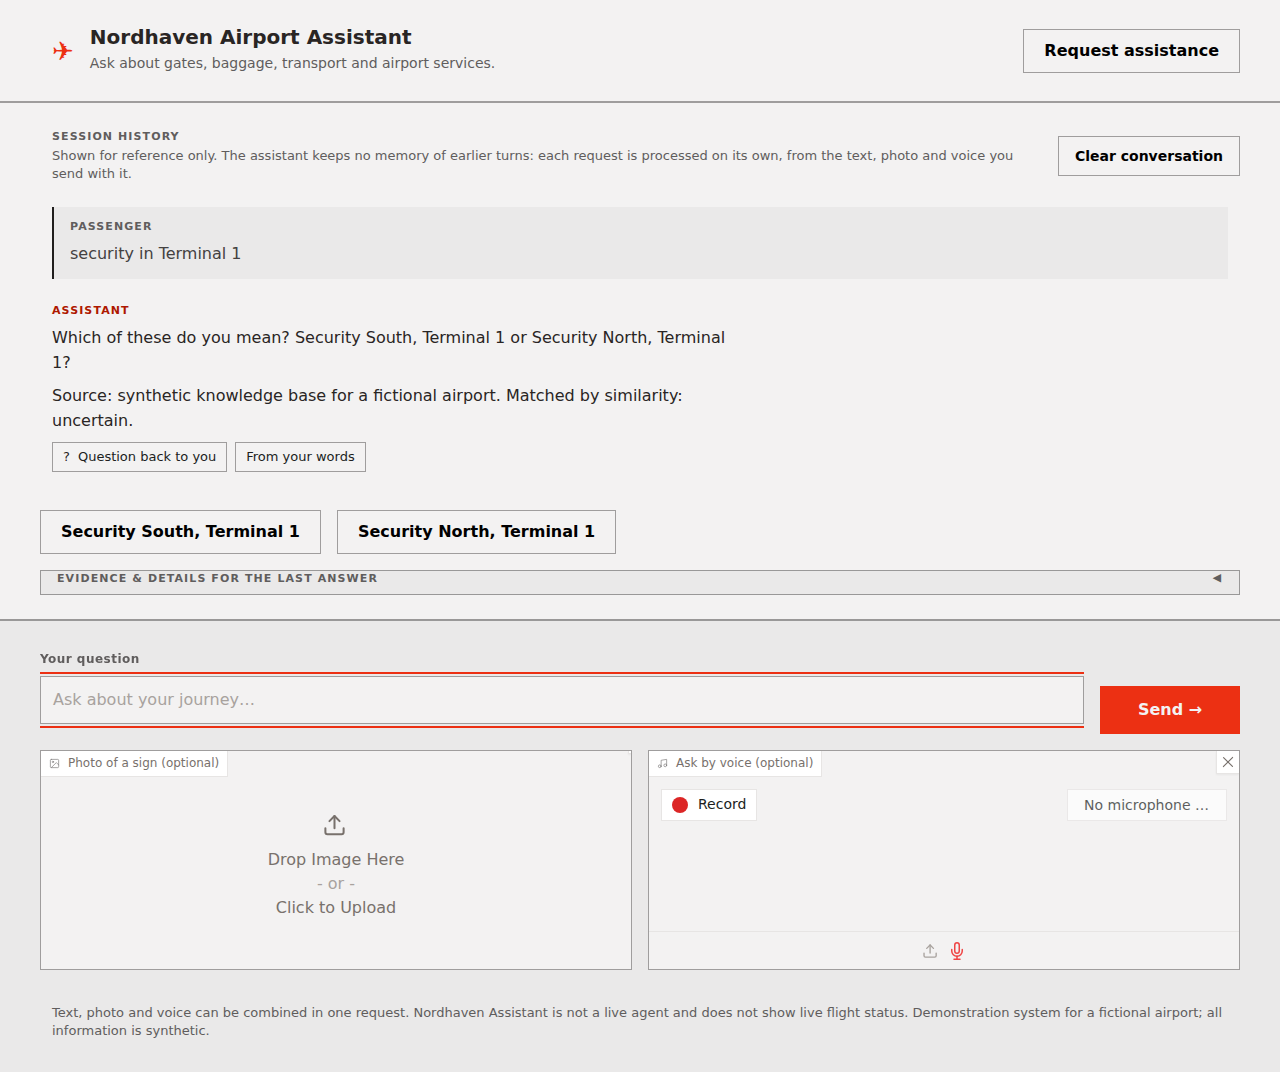
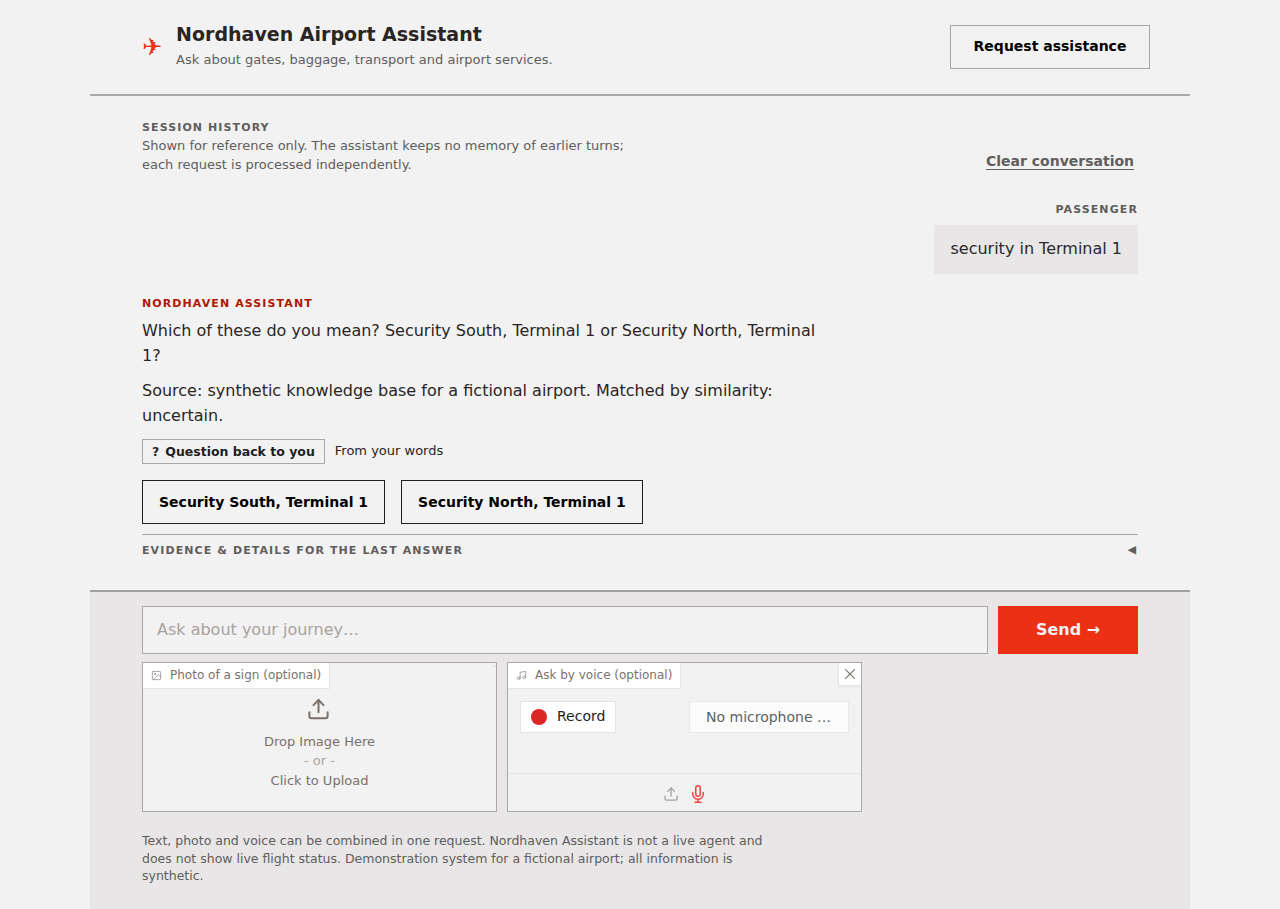
Interface: final visual pass, chat hierarchy, compact composer, single no-memory note
Passenger messages as right-aligned blocks, assistant answers as plain
text with a one-line status/source/place metadata line; hours and access
details shown under Record facts in the evidence panel from the same
fact-chip output. Composer compacted: Send attached to the question,
photo and voice as equal-height secondary controls. The no-memory note is
stated once under Session history. Presentation only; 217 tests pass.

diff --git a/app/app.py b/app/app.py
@@ -19,6 +19,7 @@ from __future__ import annotations
 import base64
 import html
 import io
+import re
 import sys
 import time
 import traceback
@@ -53,8 +54,8 @@ SUBTITLE = "Ask about gates, baggage, transport and airport services."
 SCOPE_NOTE = ("Text, photo and voice can be combined in one request. Nordhaven Assistant is not a live agent "
               "and does not show live flight status. Demonstration system for a fictional airport; "
               "all information is synthetic.")
-HISTORY_NOTE = ("Shown for reference only. The assistant keeps no memory of earlier turns: each request is "
-                "processed on its own, from the text, photo and voice you send with it.")
+HISTORY_NOTE = ("Shown for reference only. The assistant keeps no memory of earlier turns; "
+                "each request is processed independently.")
 EXAMPLES = ["Where is gate B12?", "Where can I collect my baggage?", "How do I get to Terminal 2?",
             "What does this sign mean?"]
 QUICK_REPLY_SLOTS = 3
@@ -123,6 +124,9 @@ def evidence_markdown(outcome: Outcome, gaz) -> str:
                      "from the score together with the gap to the runner-up, not from the number alone.")
     if outcome.matched_record_id:
         lines.append(f"**Matched record:** `{outcome.matched_record_id}`")
+        facts = [chip_text(c) for c in fact_chips(outcome, gaz)[1:]]
+        if facts:
+            lines.append("**Record facts:** " + "; ".join(facts))
     if outcome.candidates:
         lines.append("**Candidates:** " + ", ".join(gaz.records[r]["name"] for r in outcome.candidates if r in gaz.records))
     if outcome.conflict:
@@ -131,7 +135,6 @@ def evidence_markdown(outcome: Outcome, gaz) -> str:
                      f"photo points to {d.get('image_category')}; resolution: {d.get('resolution')}")
     if outcome.flags:
         lines.append("**Flags:** " + ", ".join(outcome.flags))
-    lines.append(HISTORY_NOTE)
     return "\n\n".join(lines)
 
 
@@ -145,6 +148,10 @@ def status_key(outcome: Outcome) -> str:
     if outcome.decision in ("redirect", "conflict", "clarify"):
         return outcome.decision
     return outcome.band or "no reliable match"
+
+
+def chip_text(chip_html: str) -> str:
+    return re.sub(r"<[^>]+>", "", chip_html).strip()
 
 
 def status_chip(key: str) -> str:
@@ -206,6 +213,7 @@ def thumbnail(image_path: str, box: int = 112) -> str | None:
 def passenger_html(text: str | None, image_path: str | None, transcript: str | None, audio: bool) -> str:
     parts = ['<div class="turn turn--user">']
     parts.append('<div class="role">Passenger' + (' · voice' if audio else '') + '</div>')
+    parts.append('<div class="bubble">')
     if image_path:
         thumb = thumbnail(image_path)
         parts.append(f'<img class="thumb" src="{thumb}" alt="Photo you attached">' if thumb
@@ -218,7 +226,7 @@ def passenger_html(text: str | None, image_path: str | None, transcript: str | N
         parts.append(f'<div class="answer">{html.escape(text)}</div>')
     if not text and not audio and image_path:
         parts.append('<div class="answer muted">Sent without a question</div>')
-    parts.append('</div>')
+    parts.append('</div></div>')
     return "".join(parts)
 
 
@@ -228,8 +236,11 @@ def assistant_html(response: str, key: str, chips: list[str]) -> str:
         body = (f'<div class="official"><div class="role">Official information</div>{paragraphs}</div>')
     else:
         body = f'<div class="answer">{paragraphs}</div>'
-    return (f'<div class="turn turn--assistant"><div class="role">Assistant</div>{body}'
-            f'<div class="chips">{status_chip(key)}{"".join(chips)}</div></div>')
+    # the metadata line carries the status, the evidence route and the place;
+    # hours and access details stay in the evidence panel
+    meta = " · ".join(chip_text(c) for c in chips[:2])
+    return (f'<div class="turn turn--assistant"><div class="role">Nordhaven Assistant</div>{body}'
+            f'<div class="meta">{status_chip(key)}<span class="meta-text">{meta}</span></div></div>')
 
 
 def conversation_html(history: list[dict]) -> str:
@@ -310,93 +321,128 @@ def request_assistance(note, session):
 # ---------------------------------------------------------------------------
 
 CSS = """
-.gradio-container { --bg:#f3f2f2; --surface:#eae9e9; --ink:#201e1d; --accent:#ec3013; --accent-deep:#ae1800;
-                    --muted:#605d5d; --rule:rgba(32,30,29,.4); --gutter:40px;
-                    max-width: 1280px !important; margin: 0 auto; background: var(--bg) !important; color: var(--ink); }
+.gradio-container { --bg:#f3f2f2; --surface:#e8e6e6; --ink:#201e1d; --accent:#ec3013; --accent-deep:#ae1800;
+                    --muted:#605d5d; --rule:rgba(32,30,29,.35); --gutter:40px; --gutter-block:calc(var(--gutter) + 12px);
+                    max-width: 1100px !important; width: 100% !important; margin: 0 auto;
+                    background: var(--bg) !important; color: var(--ink); }
 .gradio-container main.app { padding: 0 !important; }
 .gradio-container .block, .gradio-container .form { border: 0 !important; background: none !important; box-shadow: none !important; }
 footer, .built-with { display: none !important; }
 body, .gradio-container, .gradio-container * { font-family: "Archivo", system-ui, sans-serif; border-radius: 0 !important; }
 #app { gap: 0; }
+
+/* header */
 #header { display: flex; align-items: center; justify-content: space-between; gap: 16px;
-          padding: 16px var(--gutter); border-bottom: 2px solid var(--rule); }
-#header .mark { color: var(--accent); font-size: 26px; line-height: 1; }
-#header h1 { margin: 0; font-size: 20px; line-height: 1.12; font-weight: 800; }
-#header p { margin: 4px 0 0 0; font-size: 14px; color: var(--muted); }
-#header .brand { display: flex; align-items: center; gap: 16px; }
-#assist-toggle { min-height: 44px; flex: 0 0 auto !important; padding: 0 20px; background: transparent; border: 1px solid var(--rule); }
-#conversation-wrap { padding: 0 !important; }
-#conversation { padding: 4px var(--gutter) 8px; }
-#history-bar { padding: 16px var(--gutter) 0; align-items: center; justify-content: space-between; }
+          padding: 14px var(--gutter); border-bottom: 2px solid var(--rule); }
+#header .mark { color: var(--accent); font-size: 24px; line-height: 1; }
+#header h1 { margin: 0; font-size: 19px; line-height: 1.15; font-weight: 800; }
+#header p { margin: 3px 0 0 0; font-size: 13px; color: var(--muted); }
+#header .brand { display: flex; align-items: center; gap: 14px; }
+#assist-toggle { min-height: 44px; flex: 0 0 auto !important; padding: 0 16px; background: transparent;
+                 border: 1px solid var(--rule); font-weight: 600; font-size: 14px; }
+
+/* empty state */
+#examples { padding: 20px var(--gutter) 0; }
+#examples-label { margin: 0 0 8px; }
+#examples .row { justify-content: flex-start; gap: 8px; }
+#examples .ex { min-height: 44px; flex: 0 0 auto !important; padding: 0 14px; background: var(--bg);
+                border: 1px solid var(--rule); font-weight: 400; font-size: 15px; }
+#examples-hint { font-size: 14px; color: var(--muted); margin-top: 4px; }
+
+/* session history */
+#history-bar { padding: 14px var(--gutter) 0; align-items: flex-end; justify-content: space-between; gap: 12px; }
 #history-bar .block { padding: 0 !important; }
-#history-note { font-size: 13px; color: var(--muted); margin-top: 2px; }
-#conversation .turn { display: flex; flex-direction: column; gap: 8px; padding: 16px 0; }
-#conversation .turn--user { padding: 12px 16px; margin-top: 16px; background: var(--surface);
-                            border-left: 2px solid var(--ink); }
-#conversation .turn--user:first-child { margin-top: 0; }
-#conversation .turn--assistant { padding: 16px 0 20px; margin-top: 8px; border-bottom: 1px solid var(--rule); }
-#conversation .turn--assistant:last-child { border-bottom: 0; }
+#history-note { font-size: 13px; color: var(--muted); margin-top: 2px; max-width: 60ch; }
+#clear { background: transparent; border: 0; min-height: 44px; flex: 0 0 auto !important; padding: 0 8px;
+         font-weight: 600; font-size: 14px; color: var(--muted); text-decoration: underline; text-underline-offset: 3px; }
+#clear:hover { color: var(--ink); }
+
+/* conversation */
+#conversation-wrap { padding: 0 !important; }
+#conversation { padding: 8px var(--gutter) 4px; display: flex; flex-direction: column; gap: 22px; }
 .role, .subrole, #examples-label { font-weight: 800; font-size: 11px; letter-spacing: .1em; text-transform: uppercase; color: var(--muted); }
+.turn { display: flex; flex-direction: column; gap: 8px; }
+.turn--user { align-items: flex-end; text-align: left; }
+.turn--user .bubble { background: var(--surface); padding: 12px 16px; max-width: min(60ch, 85%);
+                      display: flex; flex-direction: column; gap: 8px; }
+.turn--user .answer { color: #2b2929; }
+.turn--assistant { align-items: flex-start; }
 .turn--assistant .role { color: var(--accent-deep); }
 .answer, .answer p { font-size: 16px; line-height: 1.55; max-width: 68ch; margin: 0; }
-.answer p + p { margin-top: 8px; }
-.turn--user .answer { color: #444141; }
+.answer p + p { margin-top: 10px; }
 .muted { color: var(--muted); }
-.chips { display: flex; flex-wrap: wrap; gap: 8px; }
-.chip { display: inline-flex; align-items: center; gap: 8px; font-size: 13px; padding: 5px 10px;
-        border: 1px solid var(--rule); background: var(--bg); color: var(--ink); }
-.chip--none { color: var(--accent-deep); border-color: var(--accent-deep); font-weight: 600; }
-.chip--ok { font-weight: 600; }
-.chip--media { align-self: flex-start; background: var(--surface); }
-.thumb { width: 112px; height: 84px; object-fit: contain; background: var(--surface); border: 1px solid var(--rule); }
-.official { padding: 18px 20px; background: var(--surface); border: 1px solid var(--rule);
-            border-left: 2px solid var(--ink); max-width: 620px; }
+.meta { display: flex; flex-wrap: wrap; align-items: center; gap: 10px; font-size: 13px; color: var(--muted); margin-top: 2px; }
+.meta-text { line-height: 1.4; }
+.chip { display: inline-flex; align-items: center; gap: 6px; font-size: 12.5px; padding: 3px 9px;
+        border: 1px solid var(--rule); background: var(--bg); color: var(--ink); font-weight: 600; }
+.chip--none { color: var(--accent-deep); border-color: var(--accent-deep); }
+.chip--media { align-self: flex-start; background: var(--bg); font-weight: 400; }
+.thumb { width: 112px; height: 84px; object-fit: contain; background: var(--bg); border: 1px solid var(--rule); }
+.official { padding: 16px 18px; background: var(--surface); border-left: 2px solid var(--ink); max-width: 620px; }
 .official p { font-size: 16px; line-height: 1.55; margin: 8px 0 0 0; }
-#examples { padding: 0 var(--gutter) 8px; }
-#examples-label { margin: 24px 0 8px; }
-#examples .row { justify-content: flex-start; }
-#examples .ex { min-height: 44px; flex: 0 0 auto !important; padding: 0 14px; background: var(--bg); border: 1px solid var(--rule); font-weight: 400; font-size: 15px; }
-#examples-hint { font-size: 14px; color: var(--muted); }
-#quick { padding: 0 var(--gutter) 16px; }
-#quick .row { justify-content: flex-start; }
-#quick button { min-height: 44px; flex: 0 0 auto !important; padding: 0 20px; border: 1px solid var(--rule); background: var(--bg); font-weight: 600; }
-#notice { padding: 8px var(--gutter); color: var(--accent-deep); font-size: 15px; }
-#evidence { margin: 0 var(--gutter) 16px !important; width: auto !important; background: var(--surface) !important;
-            border: 1px solid var(--rule) !important; padding: 0 16px 8px !important; }
-#evidence .prose { font-size: 14px; }
-#assistance { padding: 16px var(--gutter) 16px !important; border-top: 1px solid var(--rule) !important; }
-#assistance textarea { background: var(--bg); border: 1px solid var(--rule) !important; font-size: 16px; }
-#assistance button { flex: 0 0 auto !important; width: auto !important; align-self: flex-start; min-height: 48px; padding: 0 20px;
-                     background: var(--accent); color: var(--bg); font-weight: 800; border: 0; }
-#evidence .label-wrap span, #assistance .label-wrap span { font-weight: 800; font-size: 11px; letter-spacing: .1em; text-transform: uppercase; color: var(--muted); }
-#composer { border-top: 2px solid var(--rule); background: var(--surface); padding: 18px var(--gutter) 22px; margin-top: 8px; }
-#composer textarea, #transcript textarea { min-height: 48px; font-size: 16px; background: var(--bg);
-                    border: 1px solid var(--rule) !important; padding: 12px; }
-#composer label span, #transcript label span { font-size: 12px; font-weight: 600; letter-spacing: .04em; color: var(--muted); }
-#send { background: var(--accent); color: var(--bg); font-weight: 800; border: 0; min-height: 48px;
-        flex: 0 0 auto !important; padding: 0 24px; align-self: flex-end; }
-#send:hover { background: #dd2b0f; }
-#clear { background: transparent; border: 1px solid var(--rule); min-height: 40px; flex: 0 0 auto !important;
-         padding: 0 16px; font-weight: 600; font-size: 14px; }
-#attachments { align-items: stretch; }
-#attachments > .block { min-height: 220px; }
-#question, #transcript, #assistance .block, #examples .block, #notice { padding-left: 0 !important; padding-right: 0 !important; }
-#scope { font-size: 13px; color: var(--muted); margin-top: 8px; }
-#photo, #voice { background: var(--bg) !important; border: 1px solid var(--rule) !important; }
+
+/* after the last answer */
+#notice { padding: 8px var(--gutter-block) 0; color: var(--accent-deep); font-size: 15px; }
+#quick { padding: 2px var(--gutter-block) 0; }
+#quick .row { justify-content: flex-start; gap: 8px; }
+#quick button { min-height: 44px; flex: 0 0 auto !important; padding: 0 16px; border: 1px solid var(--ink);
+                background: var(--bg); font-weight: 600; font-size: 14px; }
+#transcript { padding: 6px var(--gutter-block) 0 !important; }
+#evidence { margin: 10px var(--gutter-block) 0 !important; width: auto !important; padding: 0 !important;
+            border-top: 1px solid var(--rule) !important; }
+#evidence .label-wrap { padding: 8px 0 !important; }
+#evidence .label-wrap span { font-weight: 800; font-size: 11px; letter-spacing: .1em; text-transform: uppercase; color: var(--muted); }
+#evidence .prose { font-size: 13.5px; line-height: 1.5; color: #3a3737; padding-bottom: 8px; }
+#evidence .prose p { margin: 0 0 6px 0; }
+
+/* assistance */
+#assistance { padding: 16px var(--gutter-block) 18px !important; margin-top: 16px; border-top: 1px solid var(--rule) !important; }
+#assistance .block, #assistance .html-container, #assistance .prose { padding: 0 !important; }
 #assistance-note { font-size: 14px; }
+#assistance textarea { background: var(--bg); border: 1px solid var(--rule) !important; font-size: 15px; }
+#assistance button { flex: 0 0 auto !important; width: auto !important; align-self: flex-start; min-height: 44px;
+                     padding: 0 18px; background: var(--ink); color: var(--bg); font-weight: 700; border: 0; font-size: 14px; }
+
+/* composer */
+#composer { border-top: 2px solid var(--rule); background: var(--surface); padding: 14px var(--gutter-block) 14px; margin-top: 24px; gap: 8px; }
+#composer .block { padding: 0 !important; }
+#composer .row { gap: 10px; }
+#question textarea, #transcript textarea { min-height: 48px; font-size: 16px; background: var(--bg);
+                    border: 1px solid var(--rule) !important; padding: 12px 14px; }
+#question label span, #transcript label span, #attachments label span { font-size: 12px; font-weight: 600;
+                    letter-spacing: .04em; color: var(--muted); }
+#question label span { position: absolute; width: 1px; height: 1px; overflow: hidden; clip: rect(0 0 0 0); }
+#send { background: var(--accent); color: var(--bg); font-weight: 800; border: 0; min-height: 48px;
+        flex: 0 0 auto !important; padding: 0 22px; align-self: flex-end; }
+#send:hover { background: #dd2b0f; }
+#attachments { align-items: stretch; max-width: 720px; }
+#attachments > .block, #photo, #voice { min-height: 0 !important; height: 150px !important; max-height: 150px !important;
+                        background: var(--bg) !important; border: 1px solid var(--rule) !important; overflow: hidden; }
+#photo .upload-container, #photo .upload-container > button { height: 100% !important; max-height: 148px !important; }
+#attachments .label-wrap, #attachments label { font-size: 12px; }
+#photo .upload-container, #photo .image-container { height: 100%; }
+#photo .wrap { font-size: 13px; }
+#voice .controls, #voice .audio-container { min-height: 0; }
+#scope { font-size: 12.5px; color: var(--muted); margin: 2px 0 0 -12px; max-width: 80ch; }
 :focus-visible { outline: 2px solid var(--accent) !important; outline-offset: 2px; }
+
 @media (max-width: 760px) {
-  .gradio-container { --gutter: 18px; }
+  .gradio-container { --gutter: 18px; --gutter-block: 30px; }
   #header { flex-direction: column; align-items: flex-start; }
-  #composer .row, #quick .row, #examples .row, #history-bar { flex-direction: column; align-items: stretch; }
+  #composer .row, #quick .row, #examples .row, #history-bar, #attachments { flex-direction: column; align-items: stretch; }
   #send { align-self: stretch; }
+  .turn--user .bubble { max-width: 100%; }
+  #attachments > .block, #photo, #voice { height: 140px !important; max-height: 140px !important; }
+  #send { width: 100% !important; }
+  #photo .upload-container, #photo .upload-container > button { max-height: 138px !important; }
 }
 """
 
 
 def build_ui() -> gr.Blocks:
     theme = gr.themes.Base(primary_hue="red", neutral_hue="stone",
-                           font=[gr.themes.GoogleFont("Archivo"), "system-ui", "sans-serif"])
+                           font=[gr.themes.GoogleFont("Archivo"), "system-ui", "sans-serif"]
+                           ).set(body_background_fill="#f3f2f2", body_background_fill_dark="#f3f2f2")
     with gr.Blocks(theme=theme, css=CSS, title=f"{AIRPORT} passenger assistant") as demo:
         session = gr.State({})
         with gr.Column(elem_id="app"):
@@ -423,7 +469,7 @@ def build_ui() -> gr.Blocks:
                                     visible=False, lines=1, elem_id="transcript")
             with gr.Accordion("Evidence & details for the last answer", open=False, elem_id="evidence",
                               visible=False) as evidence_panel:
-                evidence = gr.Markdown(value=HISTORY_NOTE)
+                evidence = gr.Markdown(value="")
 
             with gr.Column(visible=False, elem_id="assistance") as assistance:
                 gr.HTML('<div class="role">Assistance request</div>')
@@ -443,7 +489,7 @@ def build_ui() -> gr.Blocks:
                     # image_mode=None keeps the file as uploaded: the default RGB conversion
                     # turns a transparent pictogram into a black square before it reaches us
                     image_in = gr.Image(label="Photo of a sign (optional)", type="filepath", sources=["upload"],
-                                        image_mode=None, height=180, elem_id="photo")
+                                        image_mode=None, height=150, elem_id="photo")
                     audio_in = gr.Audio(label="Ask by voice (optional)", type="filepath",
                                         sources=["microphone", "upload"], elem_id="voice")
                 gr.HTML(f'<div id="scope">{SCOPE_NOTE}</div>')
@@ -460,7 +506,7 @@ def build_ui() -> gr.Blocks:
             return [result["conversation"], gr.update(visible=not has_history), gr.update(visible=has_history),
                     gr.update(value=result["notice"], visible=bool(result["notice"])),
                     gr.update(visible=bool(quick)), *buttons, gr.update(value=heard, visible=bool(heard)),
-                    gr.update(visible=bool(result["evidence"])), result["evidence"] or HISTORY_NOTE,
+                    gr.update(visible=bool(result["evidence"])), result["evidence"],
                     result["session"], "", None, None]
 
         def on_send(text, image_path, audio_path, session):

diff --git a/tests/test_app.py b/tests/test_app.py
@@ -107,7 +107,13 @@ def test_turns_are_independent_but_stay_on_screen(models_ready, tmp_path, monkey
     assert len(second["session"]["history"]) == 2 and second["session"]["turn"] == 2
     assert "Where is security?" in second["conversation"]      # earlier turn still shown
     assert "Terminal 1" in second["session"]["history"][-1]["passenger"]
-    assert ui.HISTORY_NOTE in second["evidence"]
+    assert ui.HISTORY_NOTE not in second["evidence"]      # stated once, in the session-history bar
+    assert "Record facts:" in ui.run_turn("Where is gate B12?", None, None, {})["evidence"]
+
+
+def test_history_note_is_on_the_page():
+    demo = ui.build_ui()
+    assert any(ui.HISTORY_NOTE in str(getattr(c, "value", "")) for c in demo.blocks.values())
 
 
 def test_unreadable_image_is_handled(models_ready, tmp_path, monkeypatch):

diff --git a/docs/checkpoints/05_0_ui_presentation.md b/docs/checkpoints/05_0_ui_presentation.md
@@ -84,10 +84,24 @@ Assistance. "Request assistance" in the header opens the existing
 escalation panel (note, reference number, contact route from the KB).
 Wording states that no one is connected to the chat.
 
-Composer. One text field, the photo and voice inputs side by side, Send
-and Clear conversation, and the scope sentence (not a live agent, no live
-flight status, fictional airport). The photo component keeps
-`image_mode=None` so transparent pictograms are not flattened to black.
+Composer. One text field with Send attached to it; the photo and voice
+inputs sit below as two equal-height (150 px) secondary controls, still
+labelled and still Gradio's own upload and microphone components; the scope
+sentence (not a live agent, no live flight status, fictional airport)
+closes the composer. The photo component keeps `image_mode=None` so
+transparent pictograms are not flattened to black.
+
+Visual pass (final). Passenger messages are right-aligned surface blocks,
+assistant answers plain text under a "Nordhaven Assistant" label, and the
+answer's metadata is one small line: the status chip, the evidence route
+and the place (terminal · zone). Opening hours and step-free access moved
+from the main answer to the evidence panel as "Record facts", built from
+the same `fact_chips` output so the restatement rule and its test still
+cover them. The no-memory sentence appears once, under the "Session
+history" heading. "Clear conversation" is a quiet underlined action in
+that bar; quick replies are compact equal-height outlined buttons;
+"Evidence & details for the last answer" is a collapsed, thin-ruled panel
+directly under the last turn. Page width is capped at 1100 px.
 
 ## Accessibility checks kept from 03.4
 
